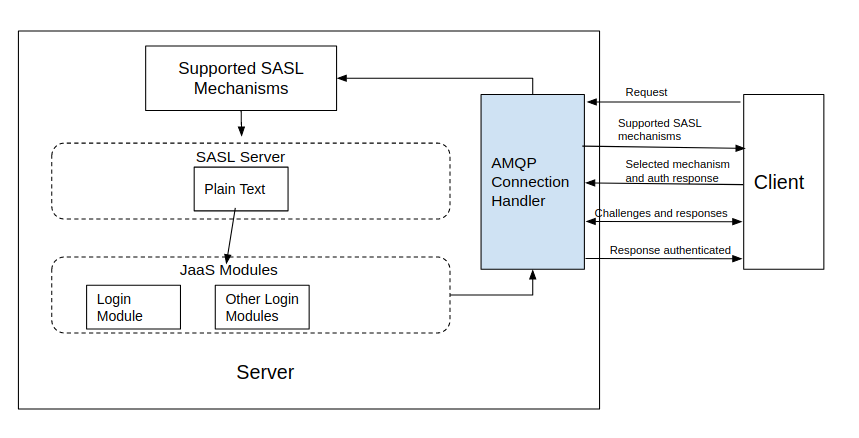
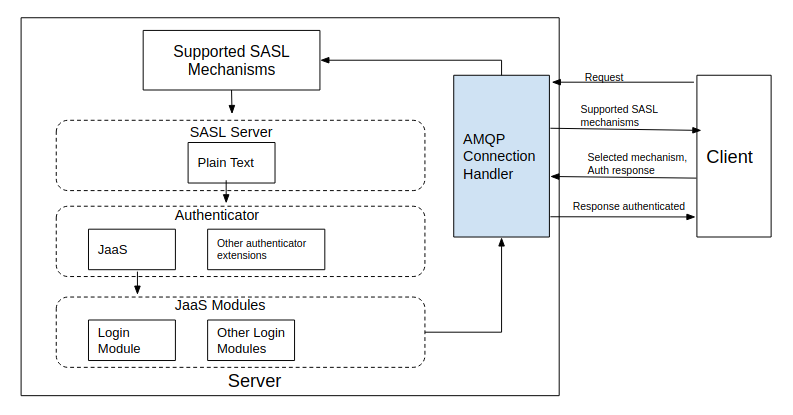
Documentation for authenticator and configuration
Documentation related to implementing custom authenticator.
This also provides content related to configuring custom authenticator and other broker authenticator related configurations.

diff --git a/docs/user/security-settings-guide.md b/docs/user/security-settings-guide.md
@@ -1,15 +1,24 @@
 # Changing the Default Authentication
 
-WSO2 Message Broker uses JAAS (Java Authentication and Authorization Service) apis to authenticate username and
-password of client connections. Authentication will be handled by the JAAS login modules.
-
+WSO2 Message Broker provides authenticator extension to authenticate username and password. Default 
+authenticator uses JAAS (Java Authentication and Authorization Service) apis to authenticate client connections. JAAS
+ Authenticator will use JAAS login modules.
 
     authenticator:
-      loginModule: io.ballerina.messaging.broker.auth.authentication.jaas.BrokerLoginModule
+        # Authenticator implemetation
+        className: io.ballerina.messaging.broker.auth.authentication.authenticator.JaasAuthenticator
+        # Optional properties
+        properties:
+         loginModule: io.ballerina.messaging.broker.auth.authentication.jaas.UserStoreLoginModule
 
-## Change default Login module
+## Change default authentication
 
-### Write custom JAAS Login module
+Default authentication can be .
+
+1) Write custom JAAS Login module
+2) Write custom authenticator.
+
+### 1) Write custom JAAS login module
 
 Custom jaas module is developed by implementing javax.security.auth.spi.LoginModule interface.
 Custom authentication should be implemented in login method and username and password can be retrieved by using callback
@@ -33,12 +42,12 @@ handler. Here is sample code snippet for login method.
         return success;
         }
 
-### Configure custom login module
+#### Configure custom login module
 
 1. Copy the custom login module build jar to <BROKER_HOME>/lib directory.
 2. Change the default login module. Default login module can be changed in two ways.
 
-#### option 1
+##### option 1
 
 1. Edit the broker.yaml (located at <BROKER_HOME>/conf/broker.yaml) pointing to the custom login module as follows.
 Custom login module can be set using loginModule property inside authenticator. The options property is used to pass any
@@ -46,13 +55,15 @@ properties to login module as a map which is optional.
  
     ```
      authenticator:
-      loginModule: <custom login module class path>
-      options:
-        key: value
+         # Authenticator implemetation
+         className: io.ballerina.messaging.broker.auth.authentication.authenticator.JaasAuthenticator
+         # Optional properties
+         properties:
+          loginModule: <custom login module>
       ...
    ```
 
-#### option 2
+##### option 2
 
 1. Create custom jaas.conf file as follows.
 
@@ -65,8 +76,32 @@ properties to login module as a map which is optional.
 2. Set the jaas config file path with java system property with name java.security.auth.login.config. As an example
 property can be added to broker.sh (located at <BROKER_HOME>/bin/broker.sh) .
 
-
-    ```
     -Djava.security.auth.login.config="<Path to file>/jaas.conf" \
-   ```
 
+### 2) Write custom authenticator
+
+Developers can implement custom authenticator and plugin using broker Configuration. This can be done by implementing
+ io.ballerina.messaging.broker.auth.authentication.Authenticator interface. Here is sample code snippet.
+ 
+     
+        @Override
+        public void initialize(StartupContext startupContext, Map<String, Object> properties) throws Exception {
+            // Initilization logic required for custom authenticator. Properties can be used to retrive any external 
+            values which can be configured in broker.yaml( server url, jass login module)
+        }
+    
+        @Override
+        public AuthResult authenticate(String username, char[] password) {
+            // Add custom authentication login here. 
+            return new AuthResult(true, username);
+        }
+        
+Custom authenticator can be configured in the broker.yaml as follows.
+ 
+     ```
+      authenticator:
+           # Authenticator implemetation
+           className: < custom authenticator class name >
+           # Optional properties
+           properties: 
+     '''

diff --git a/docs/user/configure.md b/docs/user/configure.md
@@ -66,6 +66,17 @@ These configurations are defined under the namespace `ballerina.broker.failover`
 | options:heartbeatInterval                | 5000                          | The interval, in milliseconds, at which nodes in the fail-over group update the database (for RdbmsHaStrategy) |
 | options:coordinatorEntryCreationWaitTime | 3000                          | The interval, in milliseconds, to wait prior to confirming election as coordinator (for RdbmsHaStrategy) |
 
+
+### Authentication configurations
+
+These configurations are defined under the namespace `wso2.broker.auth`. 
+
+| Config                                   | Default Value                 | Description                                                                              |
+|------------------------------------------|-------------------------------|------------------------------------------------------------------------------------------|
+| authentication:enabled                   | true           | Whether or not authentication is enabled |
+| authentication:authenticator:className   | io.ballerina.messaging.broker.auth. authentication.authenticator. JaasAuthenticator | The authenticator strategy to use to provide authentication functionality                 |
+| authentication:authenticator:properties |   loginModule: io.ballerina.messaging.broker.auth. authentication.jaas.UserStoreLoginModule  | Set of properties required for authenticator. ex. serverUrl, Jaas login module . |
+
 ## Admin service related configurations (admin-service-transports.yaml)
 
 ### Admin service listener configurations

diff --git a/docs/dev/security-architecture.md b/docs/dev/security-architecture.md
@@ -12,11 +12,12 @@ Once client request  a connection, server will send the supported SASL mechanism
 PLAIN text SASL mechanism.
 
 After that client will send the selected mechanism + auth response data. Server will create SASL server based on the
-client mechanism and then server will evaluate the client authentication data and callback handler will be executed for
- authentication. It will be done using Java Authentication and Authorization Service (JAAS)  as default
- authentication implementation.
+client mechanism and then server will evaluate the client authentication data . Then SASL server will call the 
+registered authenticator for broker. Broker will use Java Authentication and Authorization Service 
+(JAAS) as default authentication implementation. Once authenticator authenticate the plain text username and 
+password, it will response authentication result with authentication Id. 
 
- Users can defined their own JAAS Login module as well.
+ Users can defined their own JAAS Login module or write own custom authenticators as well.
   - [Changing the Default Security Settings](../user/security-settings-guide.md)
 
 If authentication is success, connection will be established or else will send authentication error.
